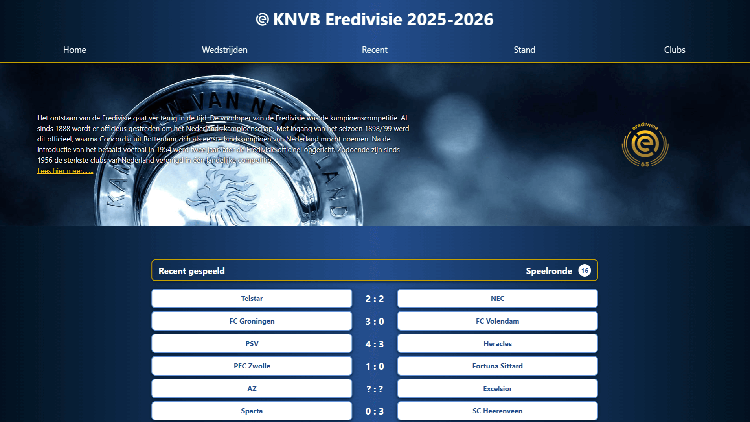
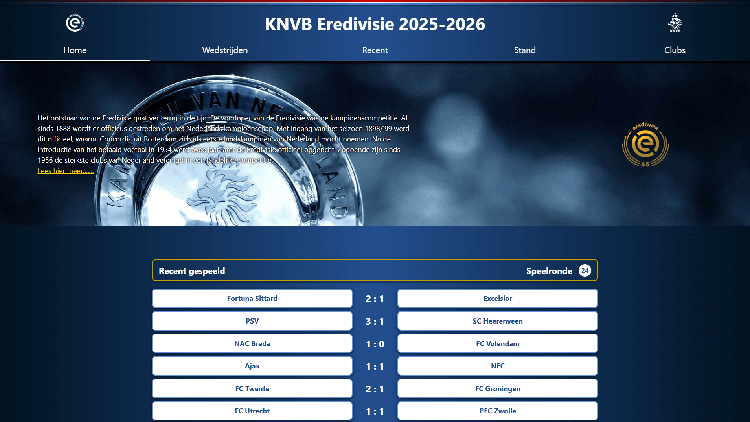
*

diff --git a/src/ProjectsList.js b/src/ProjectsList.js
@@ -157,6 +157,9 @@ export const projectsList = [
       { screenBig: "/screens/eredivisieBig.png" },
       { screenBig: "/screens/eredivisie1Big.png" },
       { screenBig: "/screens/eredivisie2Big.png" },
+      { screenBig: "/screens/eredivisieMobileBig.png" },
+      { screenBig: "/screens/eredivisieMobile2Big.png" },
+      { screenBig: "/screens/eredivisieMacBookBig.png" },
     ],
     github: "https://bitbucket.org/ajhvd/dutch-football-league/src/master/",
     github2: "https://dutchfootballleague.vercel.app/",
